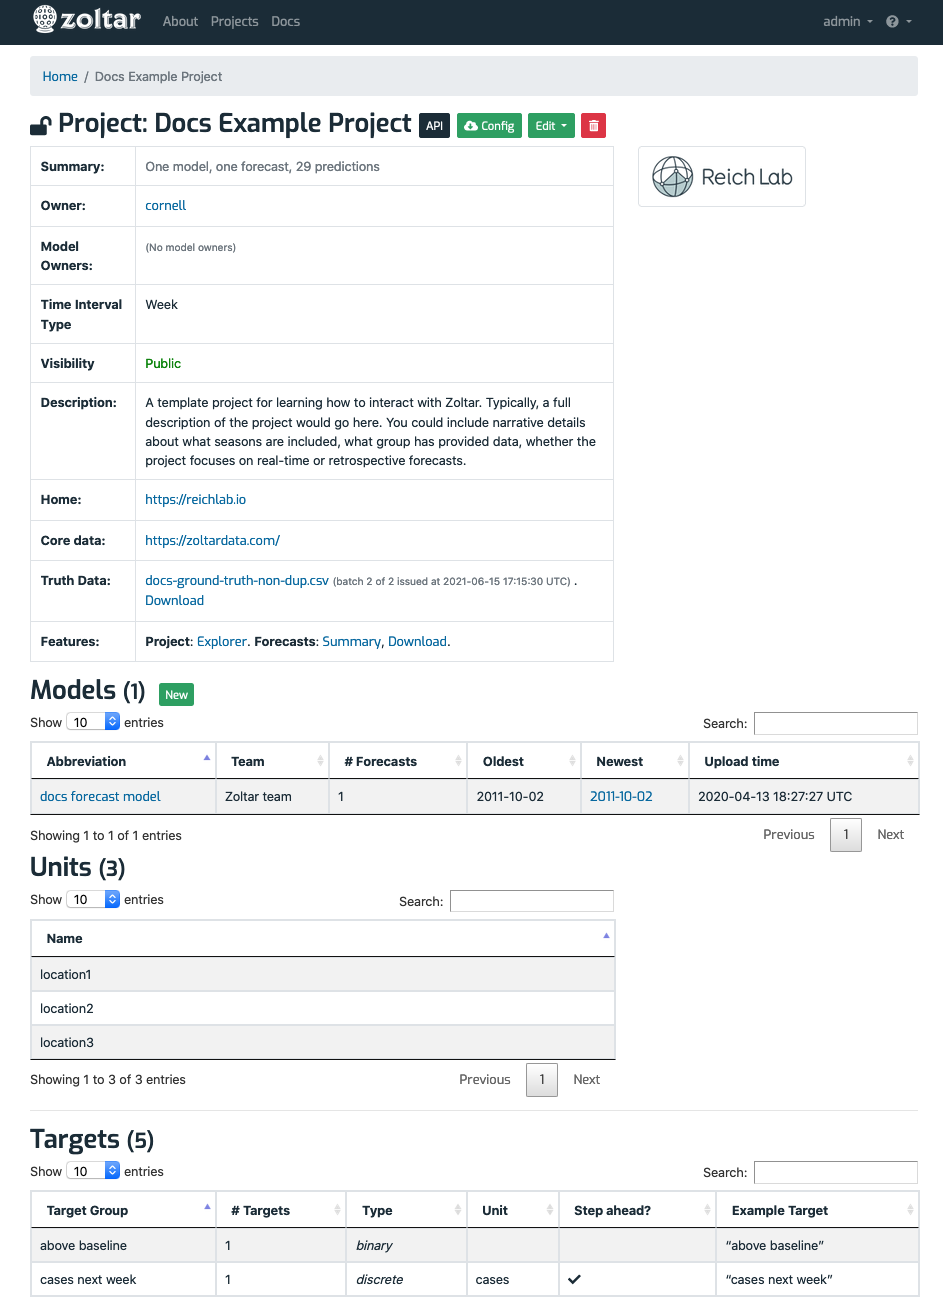
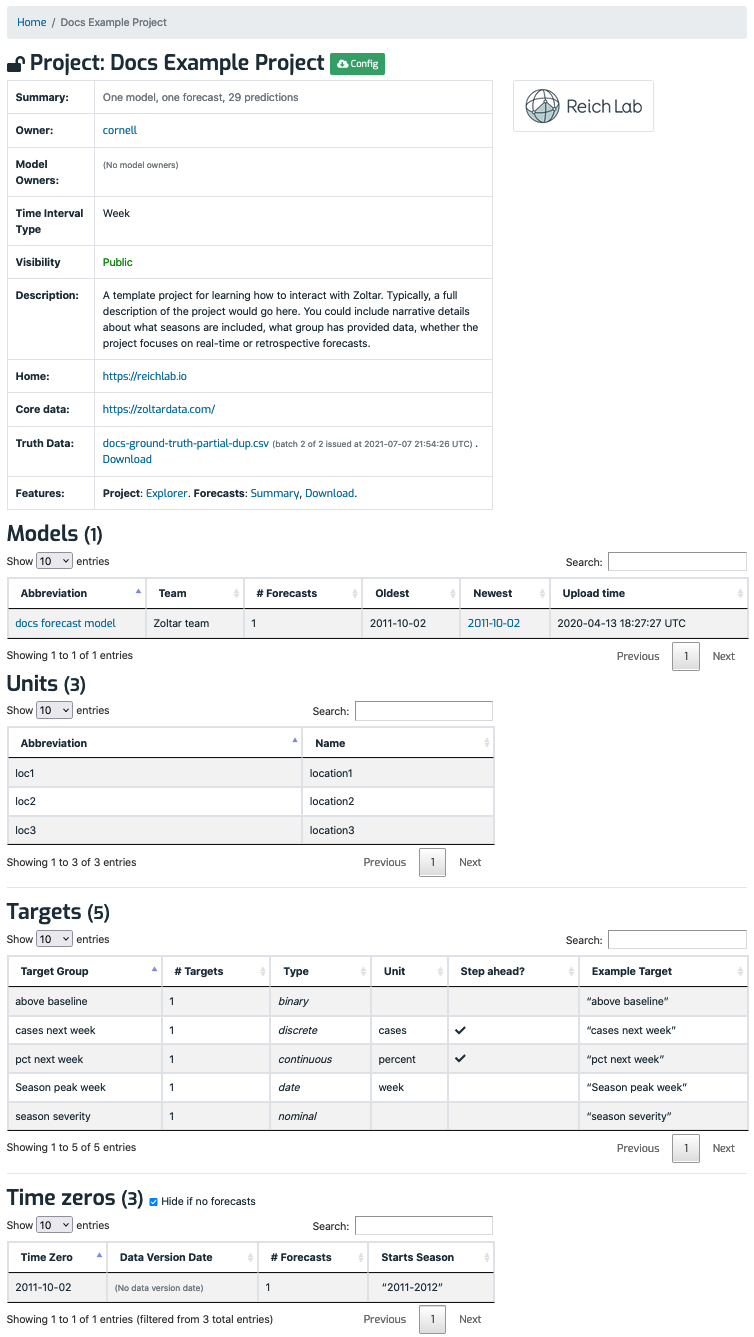
WIP issue_228

diff --git a/docs/Validation.md b/docs/Validation.md
@@ -7,7 +7,7 @@ Forecasts stored in Zoltar are validated upon upload based on the expected struc
 For clarity, we define specific terms that we will use below.
 
  - Forecast: a collection of data specific to a project > model > timezero.
- - Prediction: a group of a prediction elements(s) specific to a location and target.
+ - Prediction: a group of a prediction elements(s) specific to a unit and target.
  - Prediction Element: data that define a unique single prediction, specific to the class of prediction it is.
  - Prediction Class: data structures representing different types of predictions, e.g. "Point" and "Bin" (see [Data Model](DataModel.md) for more detail)
  - Target Type: the classification for a specific forecast target, one of "continuous", "discrete", "nominal", "binary" or "date" (see [Targets](Targets.md) for more info)
@@ -169,9 +169,9 @@ Please see [zoltar-ground-truth-example.csv](https://github.com/reichlab/docs.zo
 
 ### For all ground truth files
 
- - The columns are `timezero`, `location`, `target`, and `value`.
- - For every unique `target`-`location`-`timezero` combination, there should be either one or zero rows of truth data.
- - Every value of `timezero`, `target` and `location` must be in the list of valid values defined by the project configuration file. (Note: not every combination needs to exist for the file to be valid.)
+ - The columns are `timezero`, `unit`, `target`, and `value`.
+ - For every unique `target`-`unit`-`timezero` combination, there should be either one or zero rows of truth data.
+ - Every value of `timezero`, `target` and `unit` must be in the list of valid values defined by the project configuration file. (Note: not every combination needs to exist for the file to be valid.)
  - The `value` of the truth data cannot be `“”`, `“NA”` or `NULL` (case does not matter).
  - The `value` of the truth data should be interpretable as the corresponding `data_type` of the specified target. E.g., for a row corresponding to a `date` target, the entry must contain a valid ISO-formatted date string.
 
@@ -180,10 +180,10 @@ Please see [zoltar-ground-truth-example.csv](https://github.com/reichlab/docs.zo
 The following test can be applied to any target with a `range`. This will always apply to `binary`, `nominal`, and `date` targets, as these targets are required to have sets of valid values specified as part of the target definition. If the `range` parameter is specified for a `continuous` or `discrete` target, then the following test will be applied to that target as well.
 
 For `binary` targets:
- - The entry in the `value` column for a specific `target`-`location`-`timezero` combination must be either `true` or `false`.
+ - The entry in the `value` column for a specific `target`-`unit`-`timezero` combination must be either `true` or `false`.
 
 For `discrete` and `continuous` targets (if `range` is specified):
- - The entry in the `value` column for a specific `target`-`location`-`timezero` combination must be contained within the `range` of valid values for the target. If `cats` is specified but `range` is not, then there is an implicit range for the ground truth value, and that is between min(`cats`) and \infty.
+ - The entry in the `value` column for a specific `target`-`unit`-`timezero` combination must be contained within the `range` of valid values for the target. If `cats` is specified but `range` is not, then there is an implicit range for the ground truth value, and that is between min(`cats`) and \infty.
  
 For `nominal` and `date` target_types:
- - The entry in the `value` column for a specific `target`-`location`-`timezero` combination must be contained within the set of valid `cats` for the target, as defined by the project config file.
+ - The entry in the `value` column for a specific `target`-`unit`-`timezero` combination must be contained within the set of valid `cats` for the target, as defined by the project config file.

diff --git a/docs/DataModel.md b/docs/DataModel.md
@@ -12,9 +12,9 @@ This page documents how Zoltar represents forecast data, and the various types o
 
 ## Point predictions
 
-Point predictions represent a single value. See [here](Validation.md#point-prediction-elements) for details. In this example we see a prediction of `2.1` for the unit "location1" and target "pct next week". Note that, like all predictions, the data type (in this case the float `2.1`) must match the target's data type. (In this case it does; "pct next week" is a _discrete_ target.)
+Point predictions represent a single value. See [here](Validation.md#point-prediction-elements) for details. In this example we see a prediction of `2.1` for the unit "loc1" and target "pct next week". Note that, like all predictions, the data type (in this case the float `2.1`) must match the target's data type. (In this case it does; "pct next week" is a _discrete_ target.)
 
-    {"unit": "location1",
+    {"unit": "loc1",
       "target": "pct next week",
       "class": "point",
       "prediction": {
@@ -25,9 +25,9 @@ Point predictions represent a single value. See [here](Validation.md#point-predi
 
 ## Named distributions
 
-Named distributions represent distributions like _normal_, _log normal_, _gamma_, etc. See [here](Validation.md#named-prediction-elements) for details. Here is an example in which a _normal_ distribution ("norm" is the abbreviation) is specified for unit "location1" and target "pct next week". Named predictions support up to three parameters (named "param1", "param2", and "param3") depending on the family. Here the normal distribution requires two parameters: _mean_ ("param1") and _sd_ ("param2"). "param3" is unused and not listed.
+Named distributions represent distributions like _normal_, _log normal_, _gamma_, etc. See [here](Validation.md#named-prediction-elements) for details. Here is an example in which a _normal_ distribution ("norm" is the abbreviation) is specified for unit "loc1" and target "pct next week". Named predictions support up to three parameters (named "param1", "param2", and "param3") depending on the family. Here the normal distribution requires two parameters: _mean_ ("param1") and _sd_ ("param2"). "param3" is unused and not listed.
 
-    {"unit": "location1",
+    {"unit": "loc1",
       "target": "pct next week",
       "class": "named",
       "prediction": {
@@ -42,7 +42,7 @@ Named distributions represent distributions like _normal_, _log normal_, _gamma_
 
 Bin distributions represent binned distribution defined by inclusive lower bounds for each bin. See [here](Validation.md#bin-prediction-elements) for details. Example:
 
-    {"unit": "location2",
+    {"unit": "loc2",
       "target": "pct next week",
       "class": "bin",
       "prediction": {
@@ -56,7 +56,7 @@ Bin distributions represent binned distribution defined by inclusive lower bound
 
 Sample distributions represent samples taken for the unit and target. Here's an example:
 
-    {"unit": "location3",
+    {"unit": "loc3",
       "target": "pct next week",
       "class": "sample",
       "prediction": {
@@ -69,7 +69,7 @@ Sample distributions represent samples taken for the unit and target. Here's an 
 
 Quantile distributions represent quantiles of the predictive distribution. For example:
 
-    {"unit": "location2",
+    {"unit": "loc2",
       "target": "pct next week",
       "class": "quantile",
       "prediction": {

diff --git a/docs/Concepts.md b/docs/Concepts.md
@@ -3,9 +3,9 @@
 On this page we explain the fundamental ideas behind Zoltar's envisioning of representing forecasts in a challenge.
 
 - _Projects_: As mentioned in [Manging Projects](Projects.md), _projects_ are the central organizing concept in Zoltar. They define the _units_, _targets_ and _time zeros_ that forecasts are relative to, and contain the _forecast models_ that teams use to represent a forecasting challenge.
-- _Forecast models_: A _model_ is the representation of code that generates forecasts. It has zero or one _forecasts_ associated with the project's _time zeros_.
+- _Forecast models_: A _model_ is the representation of code that generates forecasts. It has zero or one _forecasts_ associated with the project's _time zeros_. A model is identified by its `abbrevation` field, which is unique within a project.
 - _Forecasts_: A forecast consists of a set of predictions of the various types supported by Zoltar. Forecast _versioning_ is supported via each forecast having an `issued_at` field, which defaults to when the forecast was uploaded to Zoltar. (Users with advanced permission can change that field.) See the [Data Model](DataModel.md) and [Forecast Versions](ForecastVersions.md) pages for details.
-- _Units_: Units represent distinct entities for which predictions are made, for example, if forecasts are made for multiple different locations, the locations are the units.
+- _Units_: Units represent distinct entities for which predictions are made, for example, if forecasts are made for multiple different locations, the locations are the units. A unit is identified by its `abbrevation` field, which is unique within a project.
 - _Targets_: Targets are the fundamental data structure of a forecast, and as such have a [separate page](Targets.md) documenting them.
 - _Time zeros_: Because the forecasting field does not have standard terminology, we have settled on the following two concepts for this application. Note that some time zeros are tagged as starting a season, specifying the season's name, which helps to segment the time zeros.
     - **Time zero**: The date from which a forecast originates and to which targets are relative (i.e. a "2-week-ahead forecast" is two weeks ahead of the time-zero). Every forecast is for a time zero.

diff --git a/docs/ProjectDetailPage.md b/docs/ProjectDetailPage.md
@@ -22,7 +22,7 @@ At the top of the page is a table showing this information related to the projec
     - Data file naming scheme.
 - _Home_: A link to the project's home page, which might include details about any competitions, source code, team members, included models, etc.
 - _Core data_: A link to a page that contains data (e.g., CSV files) used to train models. For model competitions, it should include all data sets made available to everyone in the challenge, including supplemental data like Google queries or weather data. Ideally Zoltar users interested in re-running a project's models have all they need in the home and core data directories. However, they are not used directly by Zoltar.
-- _Truth data_: A data file containing target ground truth that the project owner uploads. This data contains observed target values for time zeros and locations in the project, and is a project-agnostic way to capture actual values that models predicted for. It is used to extract the 'actual' data used in the D3 component's TimeChart. See [Truth](Truth.md) for details.
+- _Truth data_: A data file containing target ground truth that the project owner uploads. This data contains observed target values for time zeros and units in the project, and is a project-agnostic way to capture actual values that models predicted for. It is used to extract the 'actual' data used in the D3 component's TimeChart. See [Truth](Truth.md) for details.
 - _Features_: Links to various pages, including [project explorer](ProjectExplorerPage.md), [forecasts summary](ForecastsSummaryPage.md) and [download forecasts](Forecasts.md#download-multiple-forecasts).
 
 

diff --git a/docs/Projects.md b/docs/Projects.md
@@ -57,9 +57,9 @@ Here's an example:
 ![Project changes confirmation](img/confirm-project-changes.png "Project changes confirmation page")
 
 
-The diff function categorizes each change according to the type of change and what item it applies to. For example, the first change under **All changes** in the above screen shot is the editing of the project's "name" field. Another change is the third one in that list, which is the removal of the _unit_ named "location3". Here are all the kinds of change that might be identified:
+The diff function categorizes each change according to the type of change and what item it applies to. For example, the first change under **All changes** in the above screen shot is the editing of the project's "name" field. Another change is the third one in that list, which is the removal of the _unit_ abbreviated "loc3". Here are all the kinds of change that might be identified:
 
-- _OBJ_ADDED_: An item of a particular type will be added to the project. For example, adding a new unit named "location4".
+- _OBJ_ADDED_: An item of a particular type will be added to the project. For example, adding a new unit abbreviated "loc4".
 - _OBJ_REMOVED_: "" will be removed "" from a project. Removing the target "pct next week", say. 
 - _FIELD_EDITED_: An item's field will be set to a new value. For example, setting the "data_version_date" of the project's time zero named "2011-10-09".
 - _FIELD_ADDED_: Set an item's field that was not set before. Adding a "season_name" to the time zero "2011-10-16", say.

diff --git a/docs/FileFormats.md b/docs/FileFormats.md
@@ -21,9 +21,10 @@ Project configuration files contain eight metadata keys (`"name`, `"is_public"`,
 
 Here are the three list objects' formats:
 
-**"units"**: a list of objects containing only one field:
+**"units"**: a list of objects containing two fields:
 
 - `name`: The name of the unit.
+- `abbreviation`: The unit's abbreviation.
 
 
 **"targets"**: a list of the project's targets. Please see the [Targets.md](Targets.md) file for a detailed description of target parameters and which are required. Here are all possible parameters that can be passed in a project configuration file:
@@ -63,7 +64,7 @@ For prediction input and output we use a JSON file format. This format is strong
 
 The `"predictions"` list contains objects for each prediction, and each object contains the following four keys:
 
-- `"location"`: name of the Location.
+- `"unit"`: name of the Unit.
 - `"target"`: name of the Target.
 - `"class"`: the type of prediction this is. It is an abbreviation of the corresponding Prediction subclass - the names are : `bin`, `named`, `point`, and `sample`.
 - `"prediction"`: a class-specific object containing the prediction data itself. The format varies according to class. Here is a summary (see [Data model](DataModel.md) for details and examples):

diff --git a/docs/WebTourIntro.md b/docs/WebTourIntro.md
@@ -1,1 +1,1 @@
-This file takes you through a tour of Zoltar's web interface, located at [zoltardata.com](https://www.zoltardata.com/). Start the tour by following the links in the navigation menu on the left, ideally in order. You can also use the **Previous** and **Next** buttons at the bottom of this page.
+These pages take you through a tour of Zoltar's web interface, located at [zoltardata.com](https://www.zoltardata.com/). Start the tour by following the links in the navigation menu on the left, ideally in order. You can also use the **Previous** and **Next** buttons at the bottom of this page.

diff --git a/docs/ForecastVersions.md b/docs/ForecastVersions.md
@@ -31,7 +31,7 @@ For example, if we have two versions for a time zero, and the first forecast con
 
 ```json
 {
-  "unit": "location1",
+  "unit": "loc1",
   "target": "pct next week",
   "class": "point",
   "prediction": {
@@ -44,7 +44,7 @@ Then we could retract that prediction element in the second forecast by passing 
 
 ```json
 {
-  "unit": "location1",
+  "unit": "loc1",
   "target": "pct next week",
   "class": "point",
   "prediction": null
